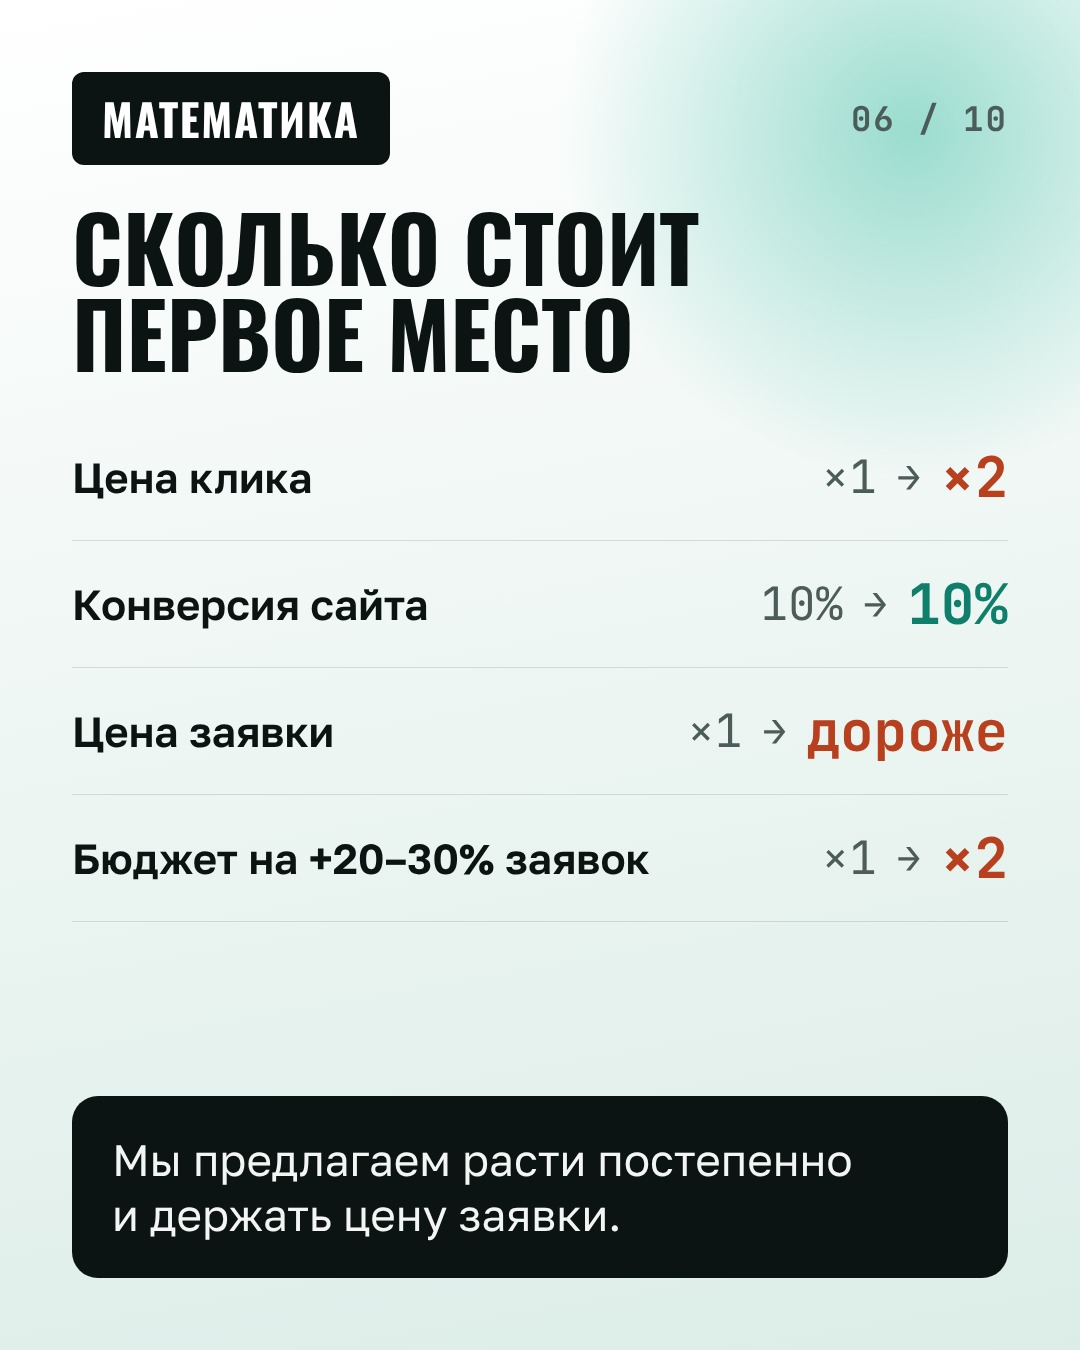
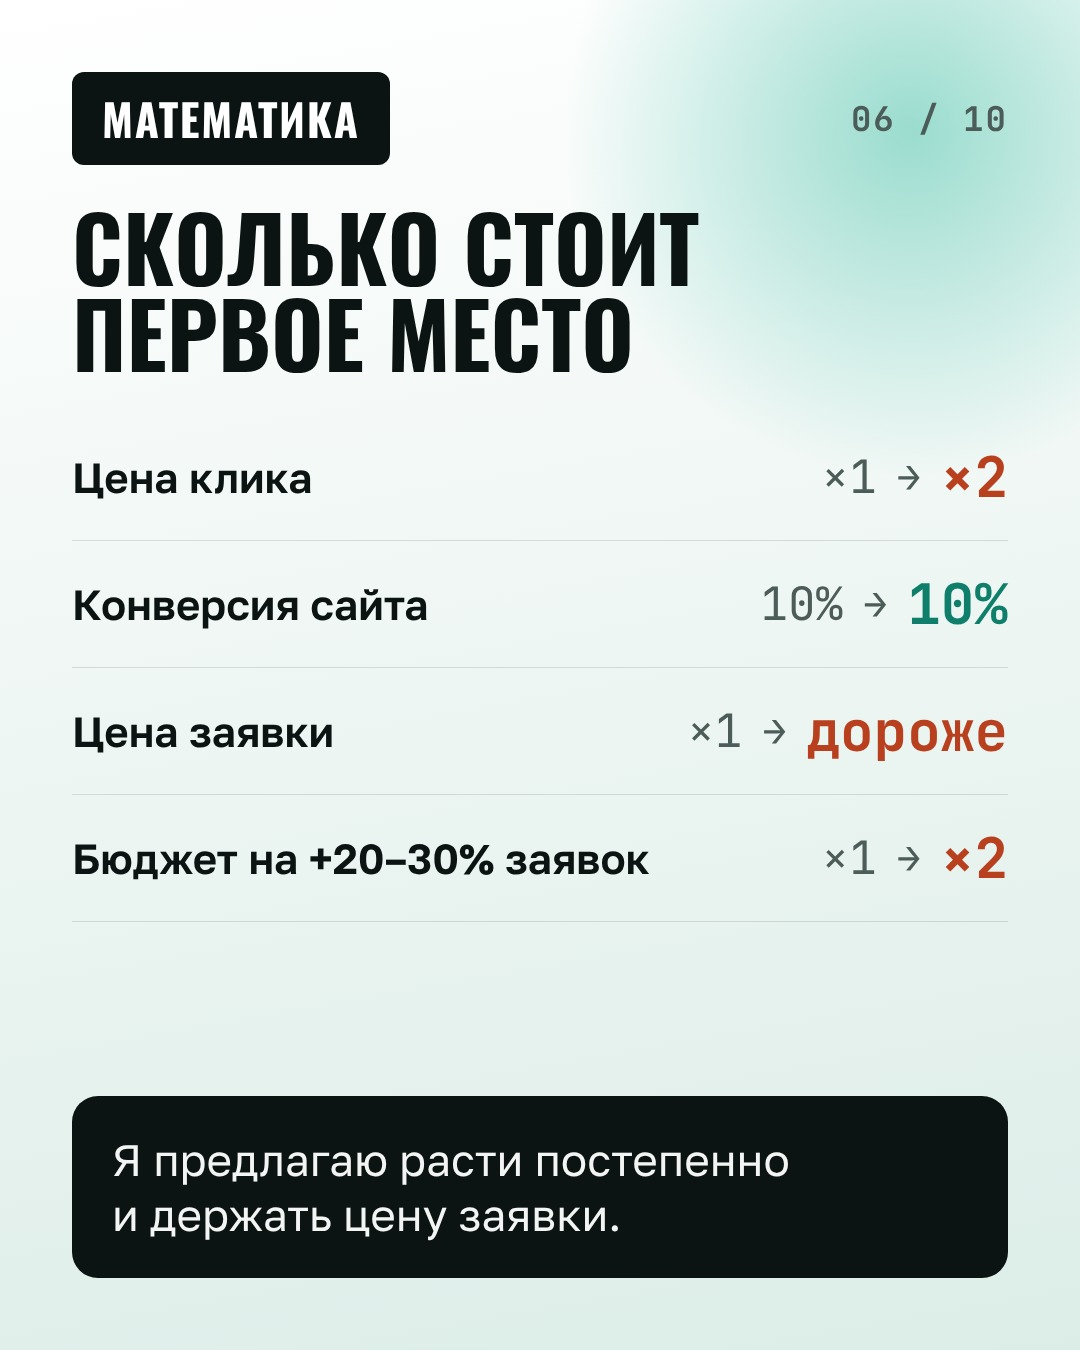
Карусель 04: текст от первого лица (я вместо мы)
Claude-Session: https://claude.ai/code/session_015ZopJ3CHHh4r3eQSk2mJXd

Changed region(s): [[0.0917, 0.84, 0.7944, 0.8711]]

diff --git a/carousels/04-ne-vizhu-reklamu/src/build4.py b/carousels/04-ne-vizhu-reklamu/src/build4.py
@@ -81,7 +81,7 @@ def quote_slide(n, k, q, sub):
 slides[2] = quote_slide(2, 1, "Я вбиваю запрос, а&nbsp;меня нет",
                         "Клиент искал себя вчера, даже в&nbsp;режиме инкогнито, и&nbsp;ничего не&nbsp;нашёл. Значит, реклама не&nbsp;работает?")
 slides[5] = quote_slide(5, 2, "Хочу всегда быть первым",
-                        "Можно. Только сначала посчитаем, сколько это стоит.")
+                        "Можно. Только сначала я посчитаю, сколько это стоит.")
 slides[7] = quote_slide(7, 3, "Конкурент дешевле вдвое и&nbsp;всегда первый",
                         "Клиенты уходят к&nbsp;нему, он везде выше нас.")
 
@@ -129,23 +129,23 @@ slides[6] = page4("light", f"""{top('Математика', 6)}
  {mrow('Бюджет на +20–30% заявок','×1','×2','#B8401F')}
 </div>
 <div class="blk" style="margin-top:auto">
- <p style="font-size:44px;line-height:1.25">Мы предлагаем расти постепенно и&nbsp;держать цену заявки.</p>
+ <p style="font-size:44px;line-height:1.25">Я предлагаю расти постепенно и&nbsp;держать цену заявки.</p>
 </div>""", LIGHT_GLOWS)
 
-# 08 Что мы знаем о конкуренте
+# 08 Что я знаю о конкуренте
 def opt(n, t):
     return f'''<div class="card" style="display:flex;gap:26px;align-items:flex-start;padding:34px 38px">
       <span class="mono" style="font-weight:700;font-size:56px;line-height:1;color:{TEAL}">{n}</span>
       <span style="font-size:44px;line-height:1.24">{t}</span></div>'''
-slides[8] = page4("dark", f"""{obj("binoc.png", "right:-50px;top:110px;width:400px;transform:rotate(-10deg)")}{top('Конкурент', 8)}
-<h2 style="max-width:600px">Видим только выдачу</h2>
-<p class="body">Кабинета и&nbsp;продаж конкурента у&nbsp;нас нет. Обычно за&nbsp;таким стоит одно из&nbsp;двух:</p>
+slides[8] = page4("dark", f"""{obj("binoc.png", "right:-40px;top:150px;width:360px;transform:rotate(-10deg)")}{top('Конкурент', 8)}
+<h2 style="max-width:600px">Вижу только выдачу</h2>
+<p class="body" style="max-width:640px">Кабинета и&nbsp;продаж конкурента у&nbsp;меня нет. Обычно за&nbsp;таким стоит одно из&nbsp;двух:</p>
 <div style="display:flex;flex-direction:column;gap:16px">
  {opt('А','Тратит фиксированные $5&nbsp;500 в&nbsp;месяц и&nbsp;не&nbsp;считает окупаемость')}
  {opt('Б','Отбивает дорогую заявку повторными продажами за&nbsp;год')}
 </div>
 <div style="margin-top:auto;border-radius:26px;padding:36px 40px;background:linear-gradient(135deg,rgba(61,189,163,.25),rgba(45,108,246,.18));border:1px solid rgba(243,245,244,.2)">
- <p style="font-size:44px;line-height:1.25;font-weight:600">Работаем от&nbsp;своих цифр, а&nbsp;не&nbsp;от&nbsp;чужой позиции.</p>
+ <p style="font-size:44px;line-height:1.25;font-weight:600">Я считаю от&nbsp;ваших цифр, а&nbsp;не&nbsp;от&nbsp;чужой позиции.</p>
 </div>""", DARK_GLOWS)
 
 # 09 Свои цифры за день
